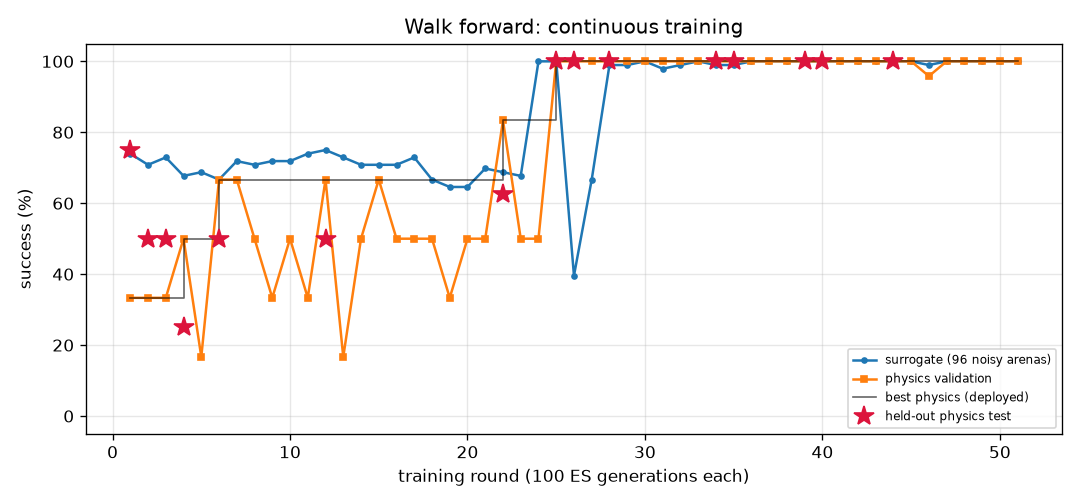
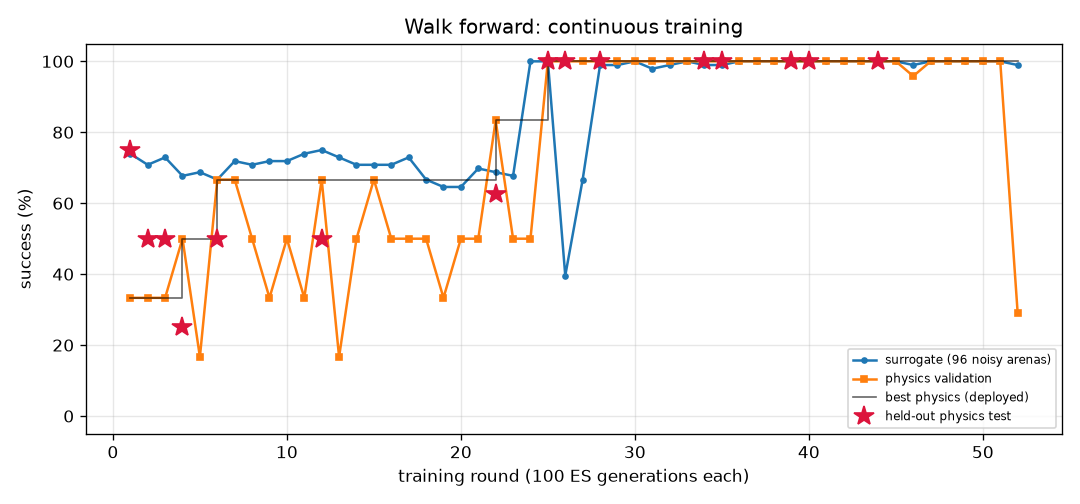
FlyLab: continuous training progress
- walk_forward: optimal, physics val 100% of 24, round 52
- turn: optimal, physics val 100% of 24, round 176
- goto: optimal, physics val 100% of 24, round 56
- odor_seek: optimal, physics val 100% of 24, round 72
- odor_avoid: optimal, physics val 100% of 24, round 315
- light_seek: optimal, physics val 100% of 24, round 234
- light_avoid: optimal, physics val 100% of 24, round 119

diff --git a/projects/09_flylab/training/walk_forward/REPORT.md b/projects/09_flylab/training/walk_forward/REPORT.md
@@ -1,14 +1,14 @@
 # Walk forward (`walk_forward`) — training report
 
-*Auto-generated by `train_brains.py`, last updated 2026-10-05T23:23:01.*
+*Auto-generated by `train_brains.py`, last updated 2026-10-06T22:18:16.*
 
 ![curve](curve.png)
 
 | | |
 |---|---|
-| rounds | 51 |
-| ES generations | 5100 |
-| physics runs | 1142 |
+| rounds | 52 |
+| ES generations | 5200 |
+| physics runs | 1166 |
 | status | **optimal** |
 | best brain | round 44: physics validation **100%** on 24 arenas, surrogate 100% |
 | held-out physics test | **100%** on 32 unseen arenas (95% CI 89%-100%) (errors: [0.21, 0.2, 0.27, 0.26, 0.21, 0.22, 0.2, 0.27, 0.26, 0.27, 0.26, 0.21, 0.26, 0.27, 0.23, 0.25, 0.21, 0.21, 0.21, 0.27, 0.26, 0.25, 0.21, 0.21, 0.21, 0.2, 0.27, 0.21, 0.2, 0.2, 0.27, 0.21]) |
@@ -17,7 +17,6 @@ Physics error per arena: mm from target at the end (< 1.5 and standing still = s
 
 | round | level | gens | sigma | surrogate | physics val | val errors | test | note |
 |---:|---:|---:|---:|---:|---:|---|---:|---|
-| 12 | 1 | 1200 | 0.039 | 75% | 67% | [2.82, 1.02, 1.22, 2.59, 1.23, 1.68] | 50% | new best |
 | 13 | 1 | 1300 | 0.038 | 73% | 17% | [2.51, 0.91, 2.74, 2.59, 2.01, 2.0] |  |  |
 | 14 | 1 | 1400 | 0.039 | 71% | 50% | [1.83, 2.15, 3.52, 1.22, 4.32, 1.71] |  | reseed: fresh weights |
 | 15 | 1 | 1500 | 0.080 | 71% | 67% | [1.89, 1.17, 2.88, 1.3, 1.42, 3.06] |  |  |
@@ -57,3 +56,4 @@ Physics error per arena: mm from target at the end (< 1.5 and standing still = s
 | 49 | 3 | 4900 | 0.024 | 100% | 100% | [0.3, 0.36, 0.29, 0.3, 0.36, 0.29, 0.37, 0.28, 0.37, 0.37, 0.29, 0.35, 0.28, 0.29, 0.33, 0.35, 0.29, 0.36, 0.28, 0.34, 0.28, 0.36, 0.33, 0.28] |  |  |
 | 50 | 3 | 5000 | 0.024 | 100% | 100% | [0.38, 0.43, 0.35, 0.38, 0.43, 0.35, 0.43, 0.35, 0.42, 0.41, 0.34, 0.39, 0.35, 0.35, 0.4, 0.4, 0.36, 0.42, 0.35, 0.41, 0.35, 0.41, 0.39, 0.35] |  |  |
 | 51 | 3 | 5100 | 0.024 | 100% | 100% | [0.38, 0.44, 0.36, 0.38, 0.44, 0.37, 0.45, 0.36, 0.45, 0.43, 0.36, 0.4, 0.36, 0.37, 0.4, 0.4, 0.37, 0.43, 0.36, 0.42, 0.36, 0.42, 0.39, 0.36] |  |  |
+| 52 | 3 | 5200 | 0.024 | 99% | 29% | [0.14, 0.04, 1.3, 1.45, 1.09, 0.12, 0.06, 0.11, 0.06, 0.15, 0.12, 0.14, 0.35, 1.16, 0.08, 0.21, 0.64, 0.65, 0.45, 0.01, 0.34, 0.07, 0.32, 0.41] |  | restart from best |

diff --git a/projects/09_flylab/training/goto/REPORT.md b/projects/09_flylab/training/goto/REPORT.md
@@ -1,14 +1,14 @@
 # Go to a location (`goto`) — training report
 
-*Auto-generated by `train_brains.py`, last updated 2026-10-06T21:20:04.*
+*Auto-generated by `train_brains.py`, last updated 2026-10-06T21:52:05.*
 
 ![curve](curve.png)
 
 | | |
 |---|---|
-| rounds | 55 |
-| ES generations | 5500 |
-| physics runs | 1110 |
+| rounds | 56 |
+| ES generations | 5600 |
+| physics runs | 1134 |
 | status | **optimal** |
 | best brain | round 46: physics validation **100%** on 24 arenas, surrogate 100% |
 | held-out physics test | **100%** on 32 unseen arenas (95% CI 89%-100%) (errors: [0.51, 0.56, 0.44, 0.63, 0.46, 0.45, 0.47, 0.6, 0.49, 0.48, 0.49, 0.47, 0.44, 0.55, 0.6, 0.51, 0.48, 0.52, 0.45, 0.45, 0.52, 0.49, 0.58, 0.47, 0.45, 0.46, 0.55, 0.46, 0.44, 0.58, 0.63, 0.61]) |
@@ -17,7 +17,6 @@ Physics error per arena: mm from target at the end (< 1.5 and standing still = s
 
 | round | level | gens | sigma | surrogate | physics val | val errors | test | note |
 |---:|---:|---:|---:|---:|---:|---|---:|---|
-| 16 | 1 | 1600 | 0.034 | 81% | 83% | [2.1, 1.27, 1.99, 1.57, 1.77, 1.52] |  | restart from best |
 | 17 | 1 | 1700 | 0.035 | 81% | 83% | [1.66, 2.37, 1.01, 1.5, 1.77, 1.44] | 75% | new best |
 | 18 | 1 | 1800 | 0.035 | 75% | 67% | [2.47, 1.98, 1.4, 1.95, 1.25, 2.03] |  |  |
 | 19 | 1 | 1900 | 0.038 | 76% | 67% | [1.68, 1.83, 2.38, 1.98, 1.7, 2.77] |  |  |
@@ -57,3 +56,4 @@ Physics error per arena: mm from target at the end (< 1.5 and standing still = s
 | 53 | 3 | 5300 | 0.024 | 100% | 100% | [0.58, 0.54, 0.42, 0.51, 0.48, 0.48, 0.58, 0.44, 0.55, 0.43, 0.47, 0.5, 0.55, 0.4, 0.43, 0.46, 0.56, 0.49, 0.42, 0.52, 0.44, 0.43, 0.55, 0.49] |  |  |
 | 54 | 3 | 5400 | 0.024 | 96% | 100% | [0.2, 0.24, 0.18, 0.23, 0.19, 0.2, 0.23, 0.25, 0.25, 0.19, 0.17, 0.2, 0.24, 0.2, 0.2, 0.23, 0.22, 0.21, 0.19, 0.24, 0.24, 0.17, 0.2, 0.21] |  | restart from best |
 | 55 | 3 | 5500 | 0.024 | 100% | 100% | [0.78, 0.74, 0.6, 0.62, 0.76, 0.61, 0.79, 0.64, 0.65, 0.61, 0.71, 0.62, 0.68, 0.61, 0.66, 0.68, 0.76, 0.66, 0.6, 0.67, 0.67, 0.62, 0.73, 0.61] |  |  |
+| 56 | 3 | 5600 | 0.024 | 100% | 100% | [0.72, 0.69, 0.54, 0.56, 0.69, 0.55, 0.72, 0.58, 0.61, 0.55, 0.64, 0.56, 0.64, 0.53, 0.59, 0.63, 0.71, 0.58, 0.54, 0.62, 0.6, 0.56, 0.66, 0.54] |  |  |

diff --git a/projects/09_flylab/training/TRAINING.md b/projects/09_flylab/training/TRAINING.md
@@ -1,14 +1,14 @@
 # FlyLab brains — continuous training log
 
-*Auto-generated by `train_brains.py`, last updated 2026-10-06T21:20:04.*
+*Auto-generated by `train_brains.py`, last updated 2026-10-06T22:18:16.*
 
 Every skill has its own brain and its own training process: surrogate ES rounds, physics validation in MuJoCo, keep-the-best selection, and a held-out physics test that is never used for selection. See each skill's report for its full round-by-round history. Mastery is progressive: passing a level (100% physics validation, >=95% surrogate) doubles the validation and test arena sets; a brain is **optimal** once it holds up at level 3 (>=95% of 24 validation arenas) AND scores >=90% on the 32 held-out test arenas. Test columns show 95% Wilson confidence intervals.
 
 | skill | rounds | ES generations | physics runs | surrogate | physics val | **physics test** | status |
 |---|---:|---:|---:|---:|---:|---:|---|
-| [Walk forward](walk_forward/REPORT.md) | 51 | 5100 | 1142 | 100% | 100% of 24 | 100% of 32 (CI 89-100%) | **optimal** |
+| [Walk forward](walk_forward/REPORT.md) | 52 | 5200 | 1166 | 100% | 100% of 24 | 100% of 32 (CI 89-100%) | **optimal** |
 | [Turn in place](turn/REPORT.md) | 176 | 17600 | 4470 | 100% | 100% of 24 | 97% of 32 (CI 84-99%) | **optimal** |
-| [Go to a location](goto/REPORT.md) | 55 | 5500 | 1110 | 100% | 100% of 24 | 100% of 32 (CI 89-100%) | **optimal** |
+| [Go to a location](goto/REPORT.md) | 56 | 5600 | 1134 | 100% | 100% of 24 | 100% of 32 (CI 89-100%) | **optimal** |
 | [Find food by smell](odor_seek/REPORT.md) | 72 | 7200 | 966 | 100% | 100% of 24 | 100% of 32 (CI 89-100%) | **optimal** |
 | [Escape a bad smell](odor_avoid/REPORT.md) | 315 | 31500 | 4770 | 98% | 100% of 24 | 100% of 32 (CI 89-100%) | **optimal** |
 | [Walk toward light](light_seek/REPORT.md) | 234 | 23400 | 2336 | 100% | 100% of 24 | 97% of 32 (CI 84-99%) | **optimal** |
